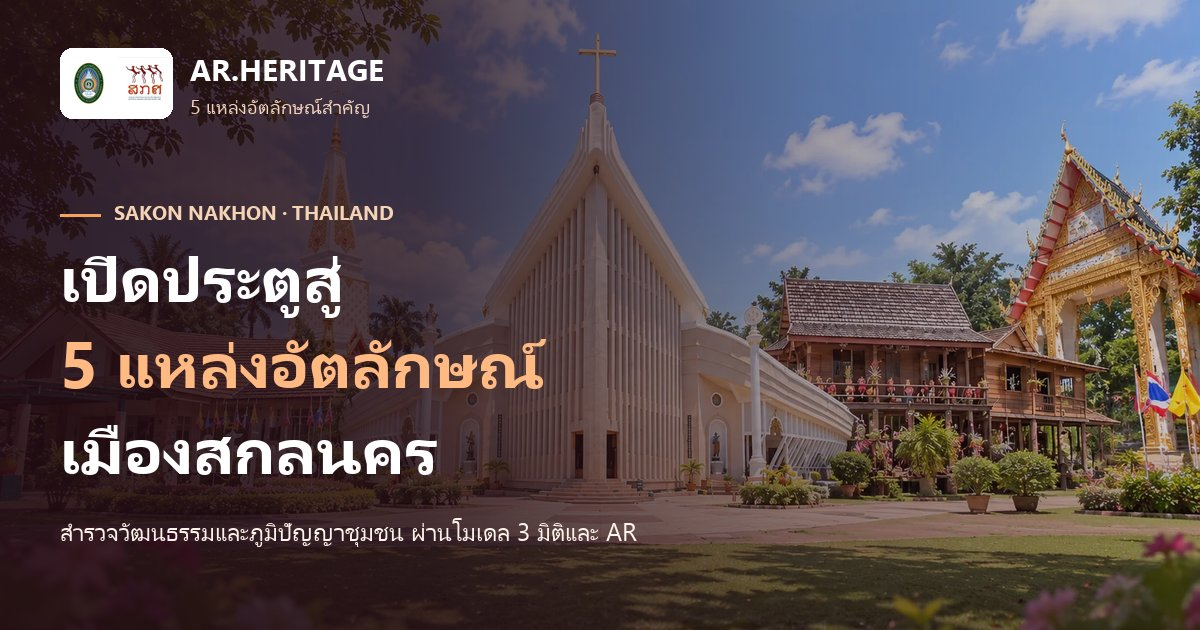
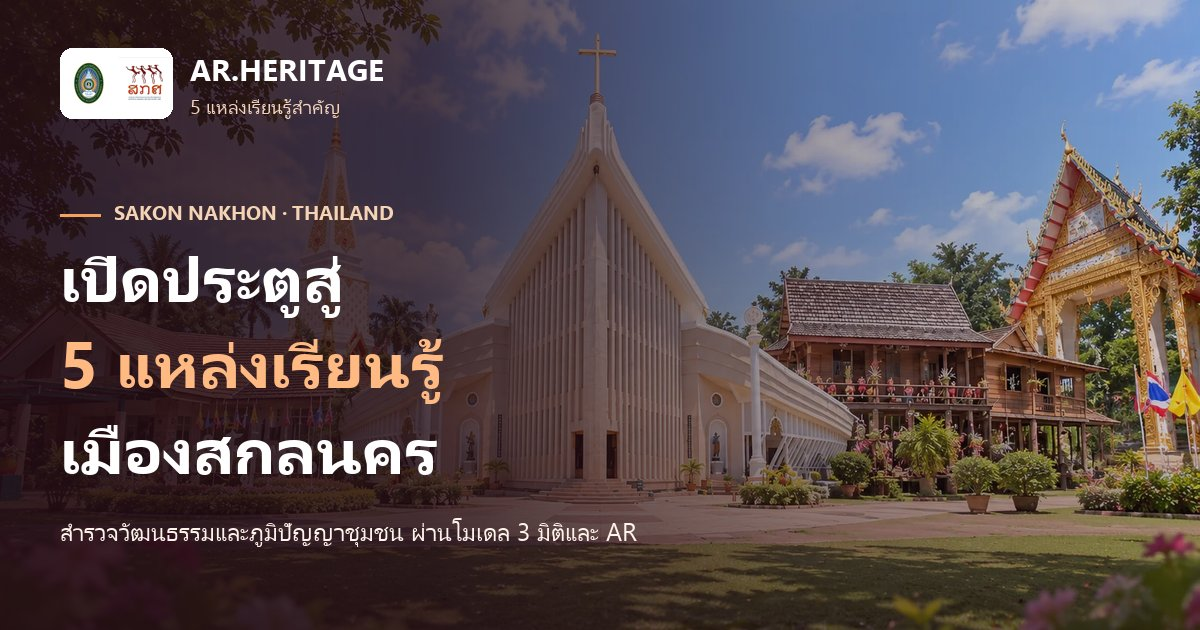
Rename 'แหล่งอัตลักษณ์' to 'แหล่งเรียนรู้' across the site and share image

Changed region(s): [[0.2158, 0.5429, 0.4625, 0.6635], [0.185, 0.1508, 0.3083, 0.181]]

diff --git a/web/src/app/(site)/page.tsx b/web/src/app/(site)/page.tsx
@@ -50,7 +50,7 @@ async function HomeContent() {
             <h1 className="hero-title">
               เปิดประตูสู่เรื่องราว
               <br />
-              <span className="gradient-text">5 แหล่งอัตลักษณ์สำคัญ</span>
+              <span className="gradient-text">5 แหล่งเรียนรู้สำคัญ</span>
               <br />
               ด้วยเทคโนโลยีความเป็นจริงเสริม (AR)
             </h1>
@@ -88,7 +88,7 @@ async function HomeContent() {
                     <i className="fa-regular fa-newspaper"></i> NEWS &amp; ARTICLES
                   </span>
                   <h2 id="hero-news-title">ข่าวสารและความเคลื่อนไหว</h2>
-                  <p>เรื่องราวจาก 5 แหล่งอัตลักษณ์สำคัญ</p>
+                  <p>เรื่องราวจาก 5 แหล่งเรียนรู้สำคัญ</p>
                 </div>
                 <span className="hero-news-header-icon" aria-hidden="true">
                   <i className="fa-solid fa-newspaper"></i>
@@ -146,7 +146,7 @@ async function HomeContent() {
             <span className="section-badge">
               <i className="fa-solid fa-layer-group"></i> 5 Cultural Identities
             </span>
-            <h2 className="section-title">5 แหล่งอัตลักษณ์สำคัญ &amp; การแสดงผล 3D AR</h2>
+            <h2 className="section-title">5 แหล่งเรียนรู้สำคัญ &amp; การแสดงผล 3D AR</h2>
             <p className="section-subtitle">
               เลือกสัมผัสเรื่องราว องค์ความรู้ และโมเดลสามมิติที่ผ่านการสแกนและขึ้นรูปด้วยเทคโนโลยีความเป็นจริงเสริม
             </p>
@@ -182,7 +182,7 @@ async function HomeContent() {
             <span className="section-badge">
               <i className="fa-solid fa-newspaper"></i> News &amp; Articles
             </span>
-            <h2 className="section-title">ข่าวสารและองค์ความรู้ 5 แหล่งอัตลักษณ์</h2>
+            <h2 className="section-title">ข่าวสารและองค์ความรู้ 5 แหล่งเรียนรู้</h2>
             <p className="section-subtitle">ติดตามความเคลื่อนไหว กิจกรรมการลงพื้นที่ และการถ่ายทอดเทคโนโลยีสู่ชุมชน</p>
           </div>
 

diff --git a/web/src/app/(site)/about/page.tsx b/web/src/app/(site)/about/page.tsx
@@ -2,7 +2,7 @@ import Link from "next/link";
 import { siteContact as siteContactExport } from "@/content/site";
 
 export const metadata = {
-  title: "เกี่ยวกับโครงการ | AR.HERITAGE 5 แหล่งอัตลักษณ์สำคัญ",
+  title: "เกี่ยวกับโครงการ | AR.HERITAGE 5 แหล่งเรียนรู้สำคัญ",
   description: "เกี่ยวกับโครงการรังสรรค์มรดกทางวัฒนธรรมและภูมิปัญญาด้วยเทคโนโลยี AR & 3D มหาวิทยาลัยราชภัฏสกลนคร",
 };
 
@@ -31,7 +31,7 @@ export default function AboutPage() {
       <div style={{ background: "white", padding: "32px", borderRadius: "20px", border: "1px solid var(--slate-200)", lineHeight: 1.85, color: "var(--slate-700)" }}>
         <p style={{ fontSize: "1.05rem", marginBottom: "18px" }}>
           เว็บไซต์คลังภูมิปัญญาและผลิตภัณฑ์ชุมชนรูปแบบ 3 มิติและความจริงเสริม (3D/AR) รวบรวมวัตถุพิพิธภัณฑ์
-          ผลิตภัณฑ์ ภูมิปัญญา และสถานที่สำคัญของ 5 แหล่งอัตลักษณ์สำคัญในจังหวัดสกลนคร
+          ผลิตภัณฑ์ ภูมิปัญญา และสถานที่สำคัญของ 5 แหล่งเรียนรู้สำคัญในจังหวัดสกลนคร
           เพื่อให้ทุกคนสามารถเข้าชมได้ผ่านเว็บเบราว์เซอร์ และวางจำลองโมเดลในพื้นที่จริงผ่านสมาร์ตโฟน (WebAR)
         </p>
         <p style={{ fontSize: "1.05rem", marginBottom: "24px" }}>
@@ -39,7 +39,7 @@ export default function AboutPage() {
         </p>
 
         <h2 style={{ fontSize: "1.3rem", fontWeight: 700, margin: "32px 0 16px", color: "var(--slate-900)" }}>
-          5 แหล่งอัตลักษณ์สำคัญ
+          5 แหล่งเรียนรู้สำคัญ
         </h2>
         <div style={{ display: "grid", gap: "12px" }}>
           <Link href="/c/tharae" style={{ display: "flex", alignItems: "center", gap: "12px", padding: "12px 16px", background: "var(--slate-50)", borderRadius: "12px", border: "1px solid var(--slate-200)" }}>

diff --git a/web/src/content/seo.ts b/web/src/content/seo.ts
@@ -1,10 +1,10 @@
-export const siteTitle = "AR Heritage & Identity | นวัตกรรมเทคโนโลยี 3D AR สู่ 5 แหล่งอัตลักษณ์สำคัญ";
+export const siteTitle = "AR Heritage & Identity | นวัตกรรมเทคโนโลยี 3D AR สู่ 5 แหล่งเรียนรู้สำคัญ";
 export const siteDescription =
-  "การประยุกต์ใช้นวัตกรรม 3D Photogrammetry และเทคโนโลยี WebAR เชื่อมโยงมรดกทางวัฒนธรรม ประวัติศาสตร์ สถาปัตยกรรม และภูมิปัญญาท้องถิ่น 5 แหล่งอัตลักษณ์สำคัญ จังหวัดสกลนคร";
+  "การประยุกต์ใช้นวัตกรรม 3D Photogrammetry และเทคโนโลยี WebAR เชื่อมโยงมรดกทางวัฒนธรรม ประวัติศาสตร์ สถาปัตยกรรม และภูมิปัญญาท้องถิ่น 5 แหล่งเรียนรู้สำคัญ จังหวัดสกลนคร";
 export const siteOpenGraph = {
   type: "website",
   locale: "th_TH",
-  siteName: "AR.HERITAGE · 5 แหล่งอัตลักษณ์สำคัญ จังหวัดสกลนคร",
+  siteName: "AR.HERITAGE · 5 แหล่งเรียนรู้สำคัญ จังหวัดสกลนคร",
   title: siteTitle,
   description: siteDescription,
 } as const;
@@ -12,5 +12,5 @@ export const shareImage = {
   url: "/brand/og-image.jpg",
   width: 1200,
   height: 630,
-  alt: "AR.HERITAGE เปิดประตูสู่ 5 แหล่งอัตลักษณ์ เมืองสกลนคร",
+  alt: "AR.HERITAGE เปิดประตูสู่ 5 แหล่งเรียนรู้ เมืองสกลนคร",
 };

diff --git a/web/src/components/SiteFooter.tsx b/web/src/components/SiteFooter.tsx
@@ -24,7 +24,7 @@ export default function SiteFooter() {
             </span>
             <div className="logo-text">
               <span className="brand-title">AR.HERITAGE</span>
-              <span className="brand-sub">นวัตกรรม 3D AR สู่ 5 แหล่งอัตลักษณ์</span>
+              <span className="brand-sub">นวัตกรรม 3D AR สู่ 5 แหล่งเรียนรู้</span>
             </div>
           </div>
           <p className="footer-desc">
@@ -33,7 +33,7 @@ export default function SiteFooter() {
         </div>
 
         <div className="footer-col">
-          <h4>5 แหล่งอัตลักษณ์</h4>
+          <h4>5 แหล่งเรียนรู้</h4>
           <ul>
             <li><Link href="/c/tharae">1. ชุมชนท่าแร่</Link></li>
             <li><Link href="/c/watklang">2. ท่าวัด (วัดกลางศรีเชียงใหม่)</Link></li>
@@ -74,7 +74,7 @@ export default function SiteFooter() {
 
       <div className="footer-bottom">
         <div className="container footer-bottom-flex">
-          <p>&copy; 2026 นวัตกรรม 3D AR สู่ 5 แหล่งอัตลักษณ์สำคัญ. จัดทำเพื่อการศึกษาและรายงานผลการฝึกงาน.</p>
+          <p>&copy; 2026 นวัตกรรม 3D AR สู่ 5 แหล่งเรียนรู้สำคัญ. จัดทำเพื่อการศึกษาและรายงานผลการฝึกงาน.</p>
           <p className="powered-by">Powered by WebXR, Google Model-Viewer & Modern Web Tech</p>
         </div>
       </div>

diff --git a/web/src/content/site.ts b/web/src/content/site.ts
@@ -33,11 +33,11 @@ export const supportingOrganizations = [
   {
     icon: "fa-solid fa-people-roof",
     typeBadge: "ภาคีเครือข่ายชุมชน & แหล่งวัฒนธรรม",
-    name: "คณะกรรมการชุมชนและแหล่งวัฒนธรรม 5 แหล่งอัตลักษณ์",
+    name: "คณะกรรมการชุมชนและแหล่งวัฒนธรรม 5 แหล่งเรียนรู้",
     role: "ชุมชนท่าแร่ • ชุมชนท่าวัด • ชุมชนโนนหอม • ศูนย์ศึกษาการพัฒนาภูพานฯ",
     summary:
       "ภาคีเครือข่ายปราชญ์ชาวบ้าน ผู้นำชุมชน และผู้บริหารแหล่งเรียนรู้ ร่วมให้ข้อมูลประวัติศาสตร์ อนุญาตให้บันทึกภาพ 3D และทดสอบการใช้งานสื่อ AR",
-    location: "แหล่งอัตลักษณ์ทั้ง 5 แห่ง จังหวัดสกลนคร",
+    location: "แหล่งเรียนรู้ทั้ง 5 แห่ง จังหวัดสกลนคร",
     mission: "อนุรักษ์ ถ่ายทอดภูมิปัญญาท้องถิ่น และต่อยอดสู่การท่องเที่ยวชุมชนอย่างยั่งยืน",
     tags: [
       { icon: "fa-solid fa-handshake-angle", label: "Community Co-Design" },

diff --git a/web/src/app/(site)/news/page.tsx b/web/src/app/(site)/news/page.tsx
@@ -5,8 +5,8 @@ import PageSkeleton from "@/components/PageSkeleton";
 import { getPublishedNews } from "@/lib/queries";
 
 export const metadata = {
-  title: "ข่าวสารและความเคลื่อนไหว | AR.HERITAGE 5 แหล่งอัตลักษณ์สำคัญ",
-  description: "ติดตามข่าวสาร กิจกรรม และองค์ความรู้จาก 5 แหล่งอัตลักษณ์สำคัญ จังหวัดสกลนคร",
+  title: "ข่าวสารและความเคลื่อนไหว | AR.HERITAGE 5 แหล่งเรียนรู้สำคัญ",
+  description: "ติดตามข่าวสาร กิจกรรม และองค์ความรู้จาก 5 แหล่งเรียนรู้สำคัญ จังหวัดสกลนคร",
 };
 
 export default function NewsPage() {
@@ -29,7 +29,7 @@ async function NewsContent() {
         </span>
         <h1 className="section-title">ข่าวสารและความเคลื่อนไหว</h1>
         <p className="section-subtitle">
-          เรื่องราว กิจกรรมการลงพื้นที่ และการถ่ายทอดเทคโนโลยี WebAR สู่ 5 แหล่งอัตลักษณ์สำคัญ
+          เรื่องราว กิจกรรมการลงพื้นที่ และการถ่ายทอดเทคโนโลยี WebAR สู่ 5 แหล่งเรียนรู้สำคัญ
         </p>
       </div>
 

diff --git a/web/src/app/(site)/map/page.tsx b/web/src/app/(site)/map/page.tsx
@@ -7,9 +7,9 @@ import { toMapLandmarks } from "@/components/map3d/data/landmarksData";
 import PageSkeleton from "@/components/PageSkeleton";
 
 export const metadata: Metadata = {
-  title: "แผนที่ 3 มิติ 5 แหล่งอัตลักษณ์สำคัญ จ.สกลนคร | AR.HERITAGE",
+  title: "แผนที่ 3 มิติ 5 แหล่งเรียนรู้สำคัญ จ.สกลนคร | AR.HERITAGE",
   description:
-    "แผนที่สามมิติ Interactive 5 แหล่งอัตลักษณ์สำคัญ จ.สกลนคร ผสานข้อมูลภูมิสัณฐานมิตรเอิร์ธ 18 อำเภอ หนองหาร และเทือกเขาภูพาน",
+    "แผนที่สามมิติ Interactive 5 แหล่งเรียนรู้สำคัญ จ.สกลนคร ผสานข้อมูลภูมิสัณฐานมิตรเอิร์ธ 18 อำเภอ หนองหาร และเทือกเขาภูพาน",
 };
 
 export default function MapPage() {

diff --git a/web/src/components/map3d/MapWorkstation.tsx b/web/src/components/map3d/MapWorkstation.tsx
@@ -155,7 +155,7 @@ export default function MapWorkstation({ landmarks }: MapWorkstationProps) {
         )}
       </div>
 
-      {/* Right Column: Clean White Rounded Panel ("5 แหล่งอัตลักษณ์สำคัญ") */}
+      {/* Right Column: Clean White Rounded Panel ("5 แหล่งเรียนรู้สำคัญ") */}
       <aside className="mw-sidebar">
         {/* Clean Header */}
         <div className="mw-sidebar-header">
@@ -163,7 +163,7 @@ export default function MapWorkstation({ landmarks }: MapWorkstationProps) {
             <i className="fa-solid fa-map-location-dot"></i>
           </div>
           <div style={{ minWidth: 0 }}>
-            <h2 className="mw-sidebar-title">5 แหล่งอัตลักษณ์สำคัญ</h2>
+            <h2 className="mw-sidebar-title">5 แหล่งเรียนรู้สำคัญ</h2>
             <span className="mw-sidebar-sub">5 CULTURAL IDENTITIES OF SAKON NAKHON</span>
           </div>
         </div>

diff --git a/web/src/app/(site)/search/page.tsx b/web/src/app/(site)/search/page.tsx
@@ -4,8 +4,8 @@ import SearchResults from "./SearchResults";
 import { getSearchIndex } from "@/lib/queries";
 
 export const metadata = {
-  title: "ค้นหาชิ้นงาน 3D & AR | AR.HERITAGE 5 แหล่งอัตลักษณ์สำคัญ",
-  description: "ค้นหาผลิตภัณฑ์ วัตถุ และมรดกทางวัฒนธรรม 5 แหล่งอัตลักษณ์สำคัญ จังหวัดสกลนคร",
+  title: "ค้นหาชิ้นงาน 3D & AR | AR.HERITAGE 5 แหล่งเรียนรู้สำคัญ",
+  description: "ค้นหาผลิตภัณฑ์ วัตถุ และมรดกทางวัฒนธรรม 5 แหล่งเรียนรู้สำคัญ จังหวัดสกลนคร",
 };
 
 export default function SearchPage() {

diff --git a/web/src/app/admin/content/page.tsx b/web/src/app/admin/content/page.tsx
@@ -119,7 +119,7 @@ async function Content() {
       <section>
         <div className="mb-4">
           <h1 className="text-2xl font-bold">จัดการข่าวสาร</h1>
-          <p className="text-sm text-muted">เพิ่มและแก้ไขข่าวสารหรือเรื่องราวประชาสัมพันธ์ของ 5 แหล่งอัตลักษณ์</p>
+          <p className="text-sm text-muted">เพิ่มและแก้ไขข่าวสารหรือเรื่องราวประชาสัมพันธ์ของ 5 แหล่งเรียนรู้</p>
         </div>
         <div className="mb-6">
           <details className="rounded-2xl border border-line bg-white p-4">

diff --git a/web/src/components/WelcomeCover.tsx b/web/src/components/WelcomeCover.tsx
@@ -19,7 +19,7 @@ export default function WelcomeCover() {
           </div>
           <div className="welcome-brand-text">
             <strong>AR.HERITAGE</strong>
-            <span>5 แหล่งอัตลักษณ์สำคัญ</span>
+            <span>5 แหล่งเรียนรู้สำคัญ</span>
           </div>
         </div>
         <div className="welcome-content">
@@ -29,7 +29,7 @@ export default function WelcomeCover() {
           <h2 id="welcome-title">
             เปิดประตูสู่
             <br />
-            <em>5 แหล่งอัตลักษณ์</em>
+            <em>5 แหล่งเรียนรู้</em>
             <br />
             เมืองสกลนคร
           </h2>

diff --git a/web/src/app/(site)/c/[slug]/page.tsx b/web/src/app/(site)/c/[slug]/page.tsx
@@ -43,7 +43,7 @@ async function CommunityPageContent({ params }: { params: PageProps<"/c/[slug]">
         <div className="community-container hero-layout">
           <div className="hero-copy">
             <Link href="/#ar-showcase" className="breadcrumb">
-              <i className="fa-solid fa-arrow-left"></i> 5 แหล่งอัตลักษณ์
+              <i className="fa-solid fa-arrow-left"></i> 5 แหล่งเรียนรู้
             </Link>
             <p className="hero-kicker">{community.englishName || "SAKON NAKHON HERITAGE"}</p>
             <h1>{community.name}</h1>
